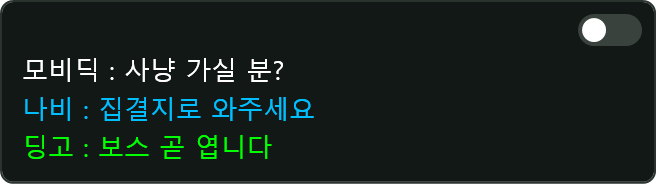
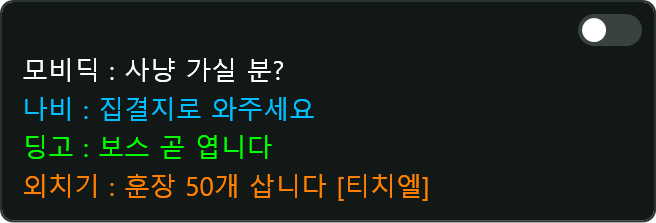
feat: 종류 말머리 켜짐 시 외치기를 '[외치기] 보낸이 : 내용'으로 재구성
- "외치기 : 내용 [보낸이]" 원문을 "[외치기] 보낸이 : 내용" 형태로 정리
- 보낸이는 SenderId 조각으로 처리되어 색상 동기화·에타/태그 장식이 그대로 적용
- 재구성 불가한 줄(보낸이 괄호 없음)은 원문 유지
- 설정 힌트·도움말 본문·전후 프레임에 외치기 예시 반영

diff --git a/Views/Controls/SettingsView.xaml b/Views/Controls/SettingsView.xaml
@@ -448,7 +448,7 @@
                                             <TextBlock Text="종류 말머리" Style="{StaticResource SettingsRowLabelStyle}"/>
                                             <Button Style="{StaticResource HelpButtonStyle}" Tag="chat.filter.category_prefix" Click="Help_Click"/>
                                         </StackPanel>
-                                        <TextBlock Text="각 줄 앞에 [일반]/[팀]/[클럽]/[시스템] 표시" Style="{StaticResource SettingsRowHintStyle}"/>
+                                        <TextBlock Text="각 줄 앞에 [일반]/[팀]/[클럽]/[외치기]/[시스템] 표시" Style="{StaticResource SettingsRowHintStyle}"/>
                                     </StackPanel>
                                 </DockPanel>
                             </Border>

diff --git a/Services/UI/ChatLineComposer.cs b/Services/UI/ChatLineComposer.cs
@@ -28,6 +28,8 @@ namespace TWChatOverlay.Services
     {
         private static readonly Regex LeadingTimestampRegex = new(@"^\s*\[[^\]]+\]\s*", RegexOptions.Compiled);
         private static readonly Regex ShoutTrailingSenderRegex = new(@"\[(?<id>[^\[\]]+)\]\s*$", RegexOptions.Compiled);
+        // 종류 말머리 켜짐일 때 "외치기 : 내용 [보낸이]" → "[외치기] 보낸이 : 내용" 재구성용
+        private static readonly Regex ShoutRestructureRegex = new(@"^외치기\s*:\s*(?<msg>.*?)\s*\[(?<id>[^\[\]]+)\]\s*$", RegexOptions.Compiled);
 
         public static List<ChatSegment> Compose(string text, LogParser.ParseResult log, ChatSettings settings)
         {
@@ -45,19 +47,36 @@ namespace TWChatOverlay.Services
                 rest = text[ts.Length..];
             }
 
-            // 1.5) 종류 말머리: [일반]/[팀]/[클럽]/[시스템] (외치기는 원문에 이미 '외치기 :'가 있어 생략)
+            // 1.5) 종류 말머리: [일반]/[팀]/[클럽]/[시스템]
+            //      외치기는 "외치기 : 내용 [보낸이]" 원문을 "[외치기] 보낸이 : 내용"으로 재구성한다
             if (settings.ShowCategoryPrefix)
             {
-                string? prefix = log.Category switch
+                if (log.Category == ChatCategory.Shout)
                 {
-                    ChatCategory.Normal or ChatCategory.NormalSelf => "[일반] ",
-                    ChatCategory.Team => "[팀] ",
-                    ChatCategory.Club => "[클럽] ",
-                    ChatCategory.System or ChatCategory.System2 or ChatCategory.System3 => "[시스템] ",
-                    _ => null,
-                };
-                if (prefix != null)
-                    segments.Add(new ChatSegment(prefix, ChatSegmentKind.Body));
+                    Match shout = ShoutRestructureRegex.Match(rest);
+                    if (shout.Success)
+                    {
+                        segments.Add(new ChatSegment("[외치기] ", ChatSegmentKind.Body));
+                        segments.Add(new ChatSegment(shout.Groups["id"].Value, ChatSegmentKind.SenderId));
+                        segments.AddRange(BuildDecorations(log, settings));
+                        segments.Add(new ChatSegment(" : " + shout.Groups["msg"].Value, ChatSegmentKind.Body));
+                        return segments;
+                    }
+                    // 재구성 실패(보낸이 괄호가 없는 줄 등)면 원문 그대로 아래 일반 처리로
+                }
+                else
+                {
+                    string? prefix = log.Category switch
+                    {
+                        ChatCategory.Normal or ChatCategory.NormalSelf => "[일반] ",
+                        ChatCategory.Team => "[팀] ",
+                        ChatCategory.Club => "[클럽] ",
+                        ChatCategory.System or ChatCategory.System2 or ChatCategory.System3 => "[시스템] ",
+                        _ => null,
+                    };
+                    if (prefix != null)
+                        segments.Add(new ChatSegment(prefix, ChatSegmentKind.Body));
+                }
             }
 
             // 2) 아이디 구간 + 아이디 뒤 장식 조각. 아이디를 못 찾으면 통짜 본문으로.

diff --git a/Services/Diagnostics/HelpShotRenderer.cs b/Services/Diagnostics/HelpShotRenderer.cs
@@ -109,11 +109,13 @@ namespace TWChatOverlay.Services
             Save(outDir, "chat_category_prefix_off.png", PanelToggle(false,
                 Line(NormalCol, ("모비딕 : 사냥 가실 분?", NormalCol)),
                 Line(TeamCol, ("나비 : 집결지로 와주세요", TeamCol)),
-                Line(ClubCol, ("딩고 : 보스 곧 엽니다", ClubCol))));
+                Line(ClubCol, ("딩고 : 보스 곧 엽니다", ClubCol)),
+                Line(ShoutCol, ("외치기 : 훈장 50개 삽니다 [티치엘]", ShoutCol))));
             Save(outDir, "chat_category_prefix_on.png", PanelToggle(true,
                 Line(NormalCol, ("[일반] ", NormalCol), ("모비딕 : 사냥 가실 분?", NormalCol)),
                 Line(TeamCol, ("[팀] ", TeamCol), ("나비 : 집결지로 와주세요", TeamCol)),
-                Line(ClubCol, ("[클럽] ", ClubCol), ("딩고 : 보스 곧 엽니다", ClubCol))));
+                Line(ClubCol, ("[클럽] ", ClubCol), ("딩고 : 보스 곧 엽니다", ClubCol)),
+                Line(ShoutCol, ("[외치기] ", ShoutCol), ("티치엘", ShoutCol), (" : 훈장 50개 삽니다", ShoutCol))));
 
             // ── 서브 채팅창: 탭 전환 ──
             Save(outDir, "chat_clone_basic.png", CloneMock(activeShout: false));

diff --git a/Services/Data/HelpTopics.cs b/Services/Data/HelpTopics.cs
@@ -111,8 +111,8 @@ namespace TWChatOverlay.Services
 
             ["chat.filter.category_prefix"] = (
                 "종류 말머리",
-                "각 채팅 줄 앞에 [일반]/[팀]/[클럽]/[시스템] 종류를 붙여 어떤 채팅인지 한눈에 구분합니다.\n" +
-                "외치기는 원문에 이미 '외치기 :'가 있어 말머리를 붙이지 않습니다.",
+                "각 채팅 줄 앞에 [일반]/[팀]/[클럽]/[외치기]/[시스템] 종류를 붙여 한눈에 구분합니다.\n" +
+                "외치기는 \"외치기 : 내용 [보낸이]\" 원문을 \"[외치기] 보낸이 : 내용\" 형태로 정리해 보여줍니다.",
                 new[] { "chat_category_prefix_off.png", "chat_category_prefix_on.png" }),
 
             // ===== 외치기 =====
